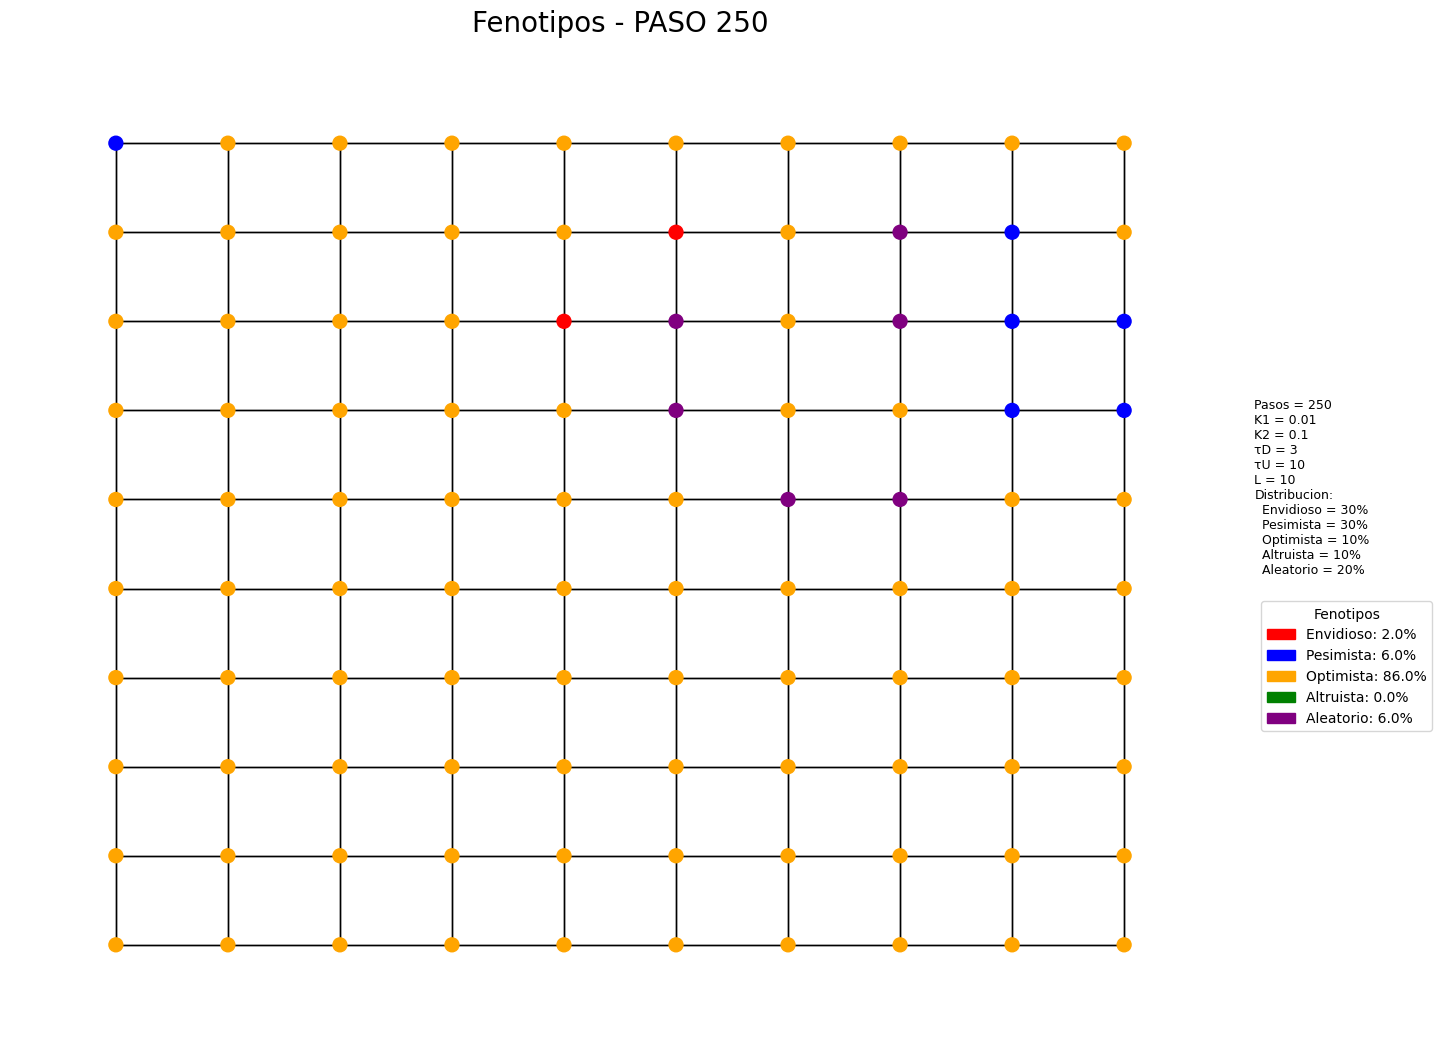
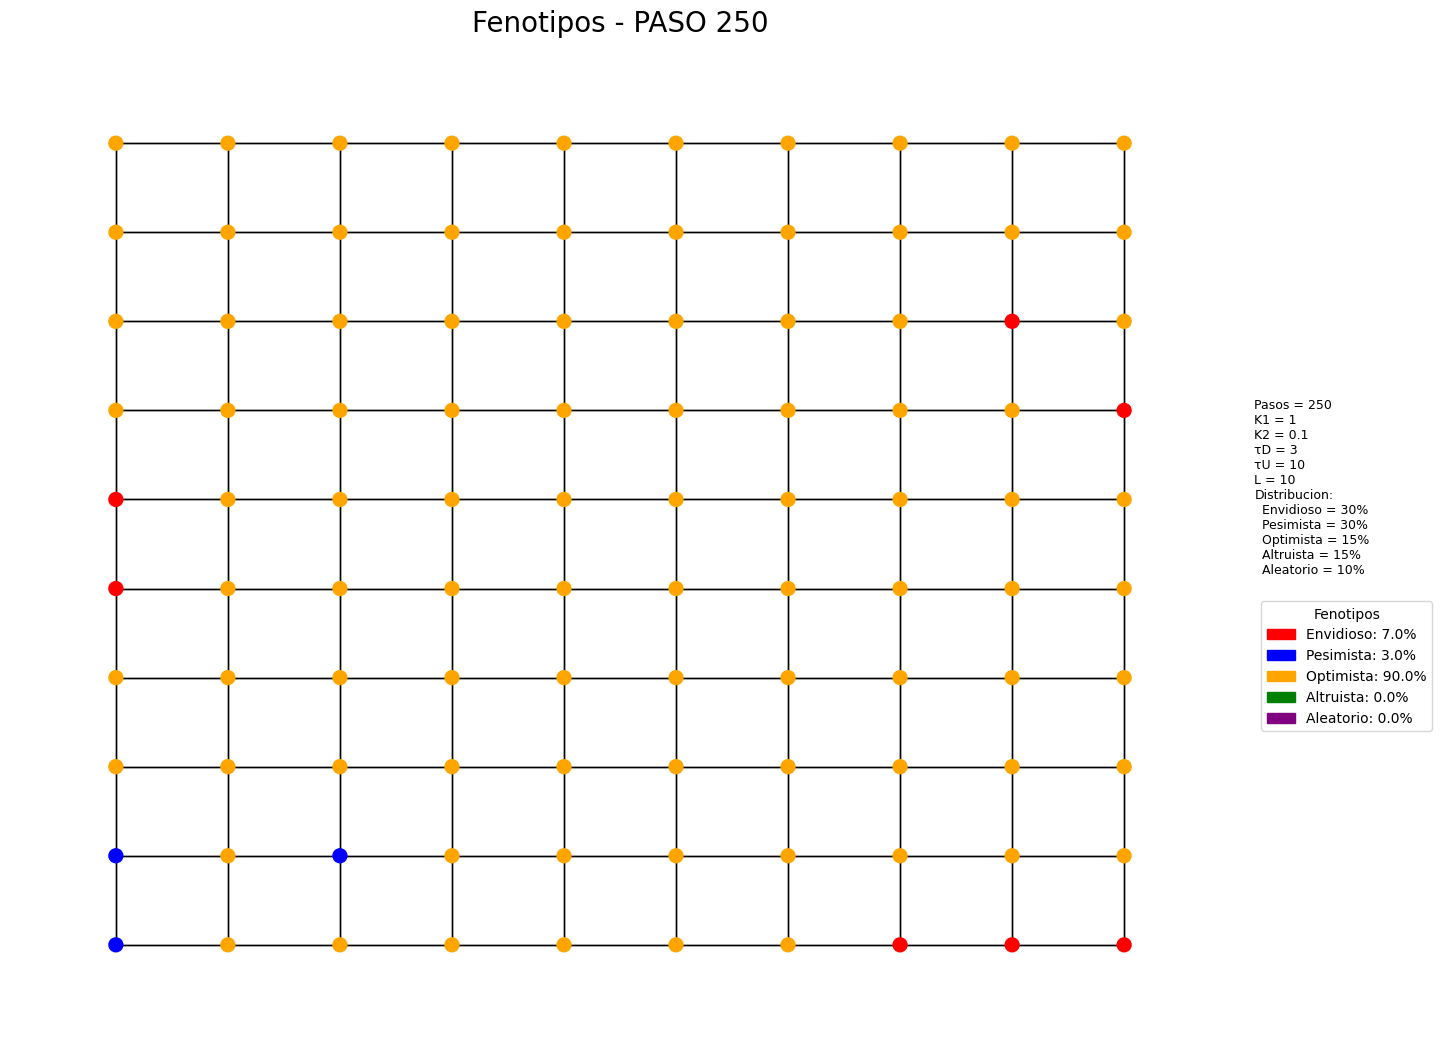
finalizadas las simulaciones de K1 = 1

diff --git a/config/parametros.py b/config/parametros.py
@@ -12,11 +12,11 @@ distrib_fenotipos = {
 }
 """
 distrib_fenotipos = {
-    'E': 0.2,
-    'P': 0.2,
-    'O': 0.2,
-    'A': 0.2,
-    'R': 0.2
+    'E': 0.15,
+    'P': 0.15,
+    'O': 0.3,
+    'A': 0.3,
+    'R': 0.1
 }
 
 
